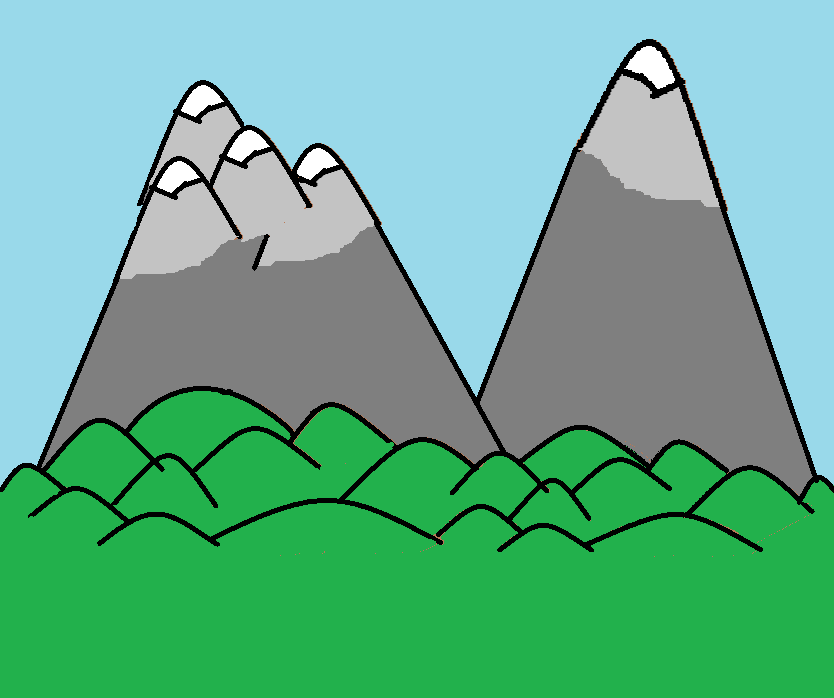
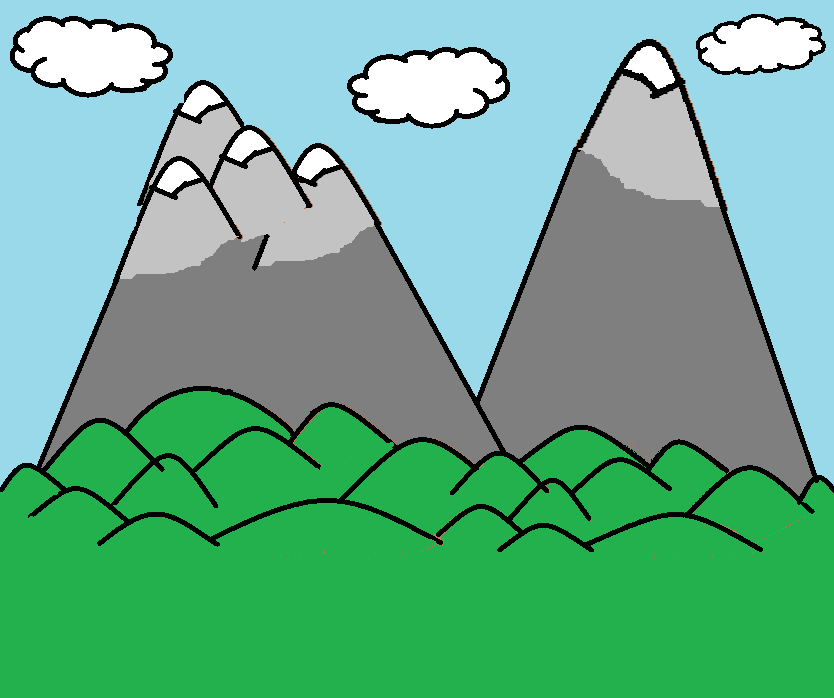
added message here

Changed region(s): [[0.0, 0.0, 0.2182, 0.1504], [0.4053, 0.0602, 0.6235, 0.1805], [0.8106, 0.0, 0.9976, 0.1203]]

diff --git a/backup.py b/backup.py
@@ -15,6 +15,9 @@ clock = pygame.time.Clock()
 score = 0
 
 #images
+Exit_Image =  pygame.image.load('Exit.png').convert()
+Exit_Image = pygame.transform.scale(Exit_Image, (55, 55))
+
 Background_image = pygame.image.load('Background.png').convert()
 Background_image = pygame.transform.scale(Background_image, (Game_Screen_width, Game_Screen_height))
 
@@ -198,7 +201,7 @@ class Bouncer:
         return
 
 class Base:
-    def __init__(self,x,y,red, green, blue, size = 35):
+    def __init__(self,x,y,red, green, blue, size = 55):
         self.size = size
         self.rect = pygame.Rect(x, y, size, size)
         self.color = (red , green, blue )
@@ -206,6 +209,8 @@ class Base:
 
     def draw(self, surface):
         pygame.draw.rect(surface, self.color, self.rect)
+        screen.blit(Exit_Image, self.rect.topleft)
+
 
 class Stall(Base):
     def __init__(self,x,y,price,text, red = 150 , green= 75, blue = 0, size = 75):
@@ -217,10 +222,22 @@ class Stall(Base):
         self.size = size
         self.rect = pygame.Rect(x, y, size, size)
         self.text= text
+        self.holder = pygame.Rect(self.rect.x, (self.rect.y + self.size + 5), 120,30)
+
 
     def draw(self, surface):
         pygame.draw.rect(surface, self.color, self.rect)
         screen.blit(Shop_image, self.rect.topleft)
+
+        font = pygame.font.SysFont(None, 16)
+        y = self.rect.y + self.size + 5
+        pygame.draw.rect(surface,(255,255,255), self.holder)
+
+        textholder = font.render(self.text, True, (0, 0, 0))
+        screen.blit(textholder, self.holder.topleft)
+        
+
+
     
 
 class Wall:
@@ -350,7 +367,7 @@ class Shop:
     def generate(self):
         self.stalls = []
         self.Home = Base(Game_Screen_width //2, Game_Screen_height //2,0, 200, 0)
-        self.End = Base(Game_Screen_width //2, Game_Screen_height - (Game_Screen_height //15),200, 0, 0)
+        self.End = Base(Game_Screen_width //2, Game_Screen_height - (Game_Screen_height //13),200, 0, 0)
         self.LivesUp = Stall(30, (Game_Screen_height //4),3,"LivesUp - 3 gold")
         self.Invis = Stall(30, (Game_Screen_height //4) * 2,8,"Wall Phase - 8 gold")
         self.SpeedUp = Stall(30, (Game_Screen_height //4) * 3,2,"Speed boost - 2 gold")
@@ -414,24 +431,22 @@ class Shop:
                 stall.curTime = pygame.time.get_ticks()
                 if stall.IntTime == 0:
                     stall.IntTime = pygame.time.get_ticks()
+                print((stall.curTime )/(stall.IntTime+2000 - pygame.time.get_ticks()))
             else:
                 stall.IntTime = 0
                 stall.Newtime = 0
                 stall.curTime = 0
              
             if stall.curTime - 2000 > stall.IntTime and stall.IntTime != 0:
+                    
                     stall.bought = True
                     print(f"bought {stall}")
                     stall.IntTime = 0
                     stall.Newtime = 0
                     stall.curTime = 0
                     print(self.LivesUp.bought)
-        #for stall in self.stalls:
-        #    if stall.bought and arena_current.player.money >= stall.price:
-        #        stall.activate()
-        #        stall.bought = False
-        #        arena_current.player.money -= stall.price
-                
+
+
         if self.LivesUp.bought and arena_current.player.money >= 3:
             arena_current.player.lives += 1
             self.LivesUp.bought = False
@@ -521,16 +536,31 @@ class Arena:
 
     def update_hud(self):
         font = pygame.font.SysFont(None, 32)
+        if self.player.dash:
+            dash_display = self.player.dashCooldown
+        else:
+            dash_display = "Locked"
+        
+        if self.player.invis:
+            invis_display = "Unlocked"
+        else:
+            invis_display = "Locked"
+
         lines = [
             f"round: {self.difficulty}",
             f"lives: {self.player.lives}",
-            f"money: {self.player.money}"
+            f"money: {self.player.money}",
+            f"Dash: {dash_display}",
+            f"Wall Phase: {invis_display}"
         ]
 
-        y = Game_Screen_height + 10
-        for line in lines:
-            textholder = font.render(line, True, (255, 255, 255))  # Only render once!
-            screen.blit(textholder, (hud.left + 10, y))  # Use (x, y) position for each line
+        x = -90
+        for i in range(len(lines)):
+            if i%3 == 0:
+                y = Game_Screen_height + 10
+                x = x + 120
+            textholder = font.render(lines[i], True, (255, 255, 255))  # Only render once!
+            screen.blit(textholder, (hud.left + x, y))  # Use (x, y) position for each line
             y += font.get_height() + 5
             #hud.blit(some_icon, (10, 10))
 
@@ -558,9 +588,7 @@ class Arena:
        
 
     
-    def generate(self):
-        
-      
+    def generate(self):  
         #creating home and end bases
         self.Home = Base(Game_Screen_width //2, Game_Screen_height //15,0, 200, 0)
         self.End = Base(Game_Screen_width //2, Game_Screen_height - (Game_Screen_height //15),200, 0, 0)
@@ -579,7 +607,6 @@ class Arena:
 
         #Generate key
         self.Generate_key()
-        
         #based on difficulty create sliders/bouncers/hunters
         if self.difficulty > 0 and self.passed == True:
             if self.difficulty % 4 == 0 or self.difficulty % 5 == 0:
@@ -649,7 +676,7 @@ class Arena:
                 self.money.draw(screen)
                 self.money.delete()
         
-        self.Home.draw(screen)
+        #self.Home.draw(screen)
         if self.unlocked:
             self.End.draw(screen)
         for wall in self.walls:
@@ -835,6 +862,10 @@ class Arena:
             while (EndTime + 500)> pygame.time.get_ticks():
                 print(self.player.money)
             return 1
+        
+
+#class BossArena():
+
 class Maze():
     def __init__(self):
         pi = 3.14
@@ -895,7 +926,7 @@ class Maze():
         self.End = Base(Game_Screen_width //2, Game_Screen_height - (Game_Screen_height //15),200, 0, 0)
         player_Start_x = (Game_Screen_width //2)+ (self.Home.size //4)
         player_Start_y = (Game_Screen_height //15)+(self.Home.size //4)
-        arena_current.player.rect.x, arena_current.player.rect.y = 100,100#player_Start_x,player_Start_y
+        arena_current.player.rect.x, arena_current.player.rect.y = player_Start_x,player_Start_y #player_Start_x,player_Start_y
         self.walls = self.generate_walls()
         
     def update_walls(self):
@@ -909,7 +940,6 @@ class Maze():
                 self.walls.remove(wall)
                 
     def update(self):
-        print(arena_current.keyPress)
         if arena_current.keyPress == True:
             self.update_walls()
         old_y = arena_current.player.rect.y
@@ -924,14 +954,12 @@ class Maze():
             arena_current.keyPress = True
             arena_current.player.rect.y += arena_current.player.speed
 
-        #print("end of movement y", arena_current.player.rect.y)
 
         for wall in self.walls:
             if arena_current.player.colliderect(wall.rect):
                 arena_current.player.rect.y = old_y  # Undo horizontal movement
                 break
         old_x = arena_current.player.rect.x
-        #print("old x", old_x)
 
         
 
@@ -953,11 +981,7 @@ class Maze():
                 arena_current.player.Time_Used = pygame.time.get_ticks()
                 arena_current.player.dashCooldown = -pygame.time.get_ticks() + (arena_current.player.Time_Used+arena_current.player.dashDelay)
             else:
-                arena_current.player.rect.x += arena_current.player.speed
-        
-        
-        #print("end of movement x", arena_current.player.rect.x)
-        
+                arena_current.player.rect.x += arena_current.player.speed        
                     
         if arena_current.player.dashCooldown > 0:
                 arena_current.player.dashCooldown = -pygame.time.get_ticks() + (arena_current.player.Time_Used + arena_current.player.dashDelay)
@@ -975,16 +999,13 @@ class Maze():
                 return 0
             
         if arena_current.player.colliderect(self.End):
-            print(9)
+            arena_current.difficulty +=1
             return 1
             
         #creating boundaryies for walls y-axis
         
                 
         self.playerLims(old_x,old_y)
-        #print("after lims y", arena_current.player.rect.y)
-
-
 
 init = True
 arena_current = Arena(0)
@@ -1076,4 +1097,3 @@ while init == True:
             pygame.display.flip()
 
             clock.tick(50)
-
